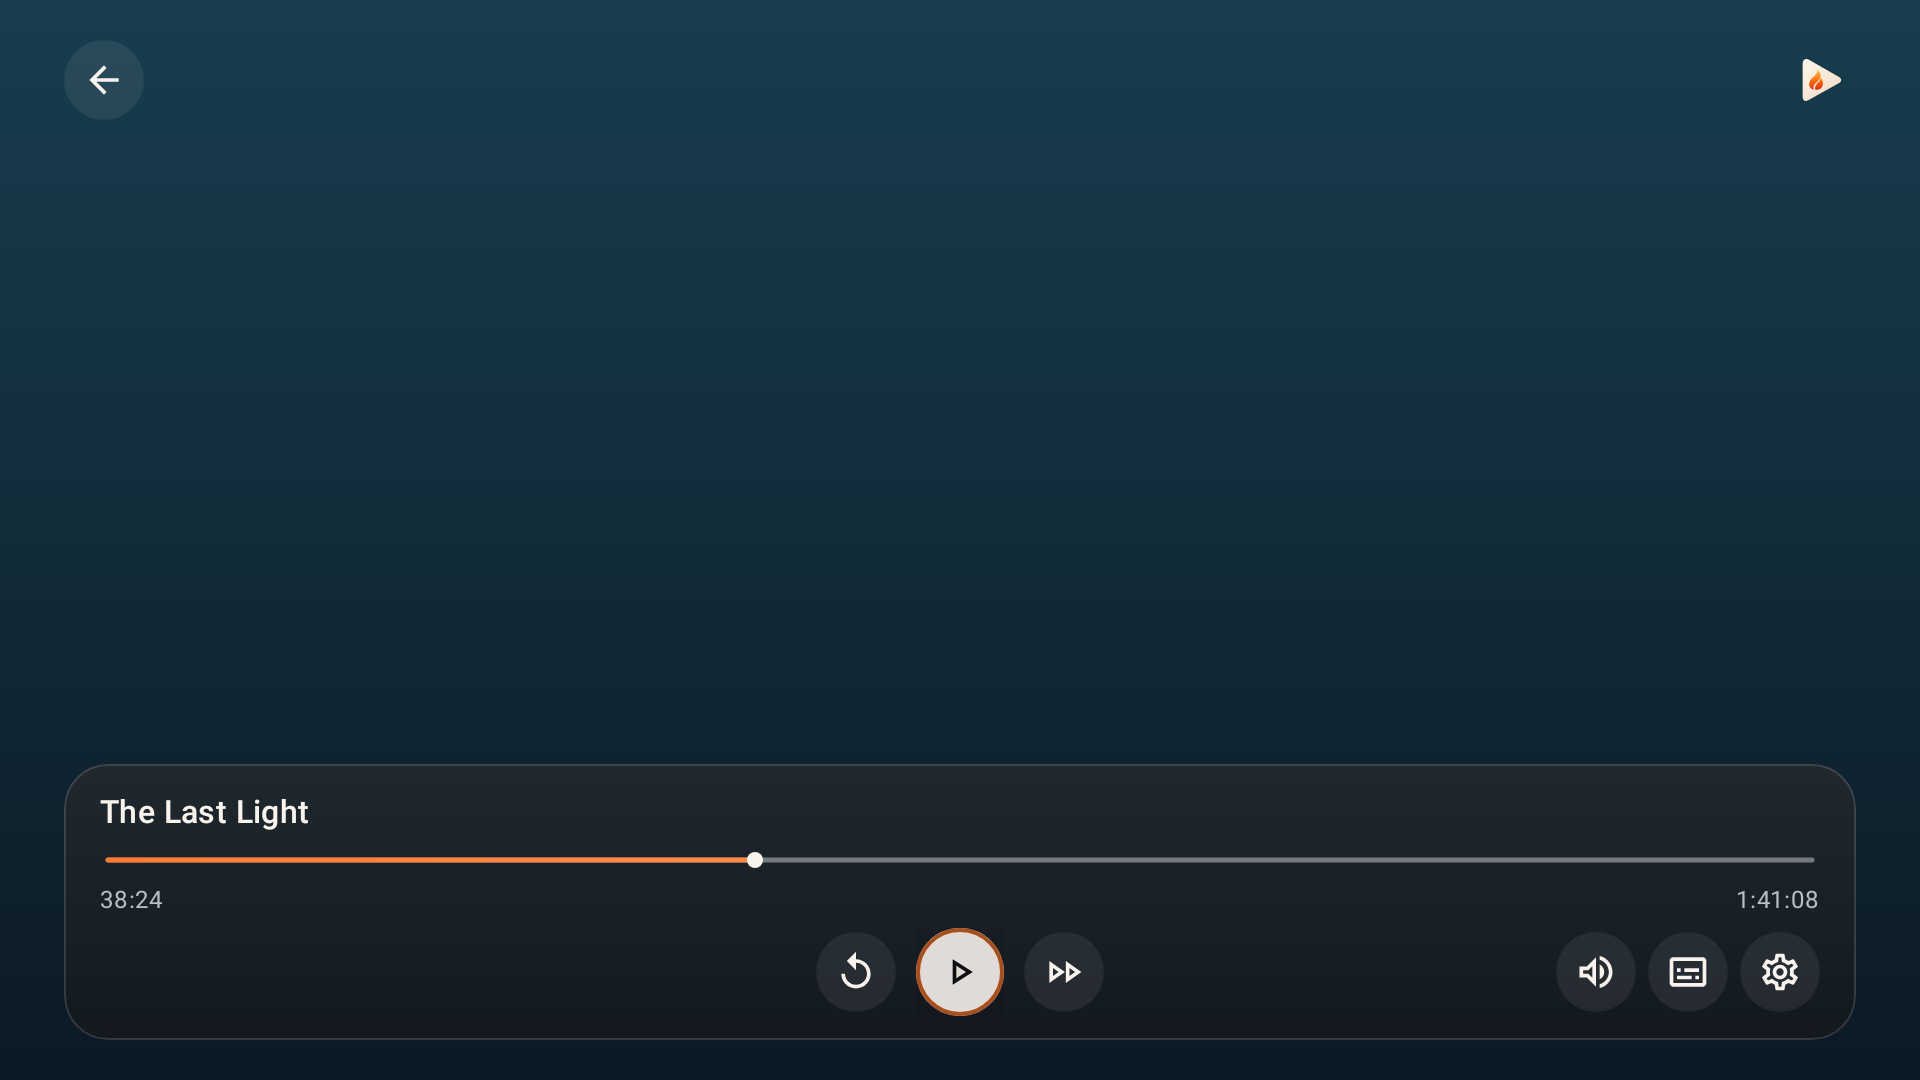
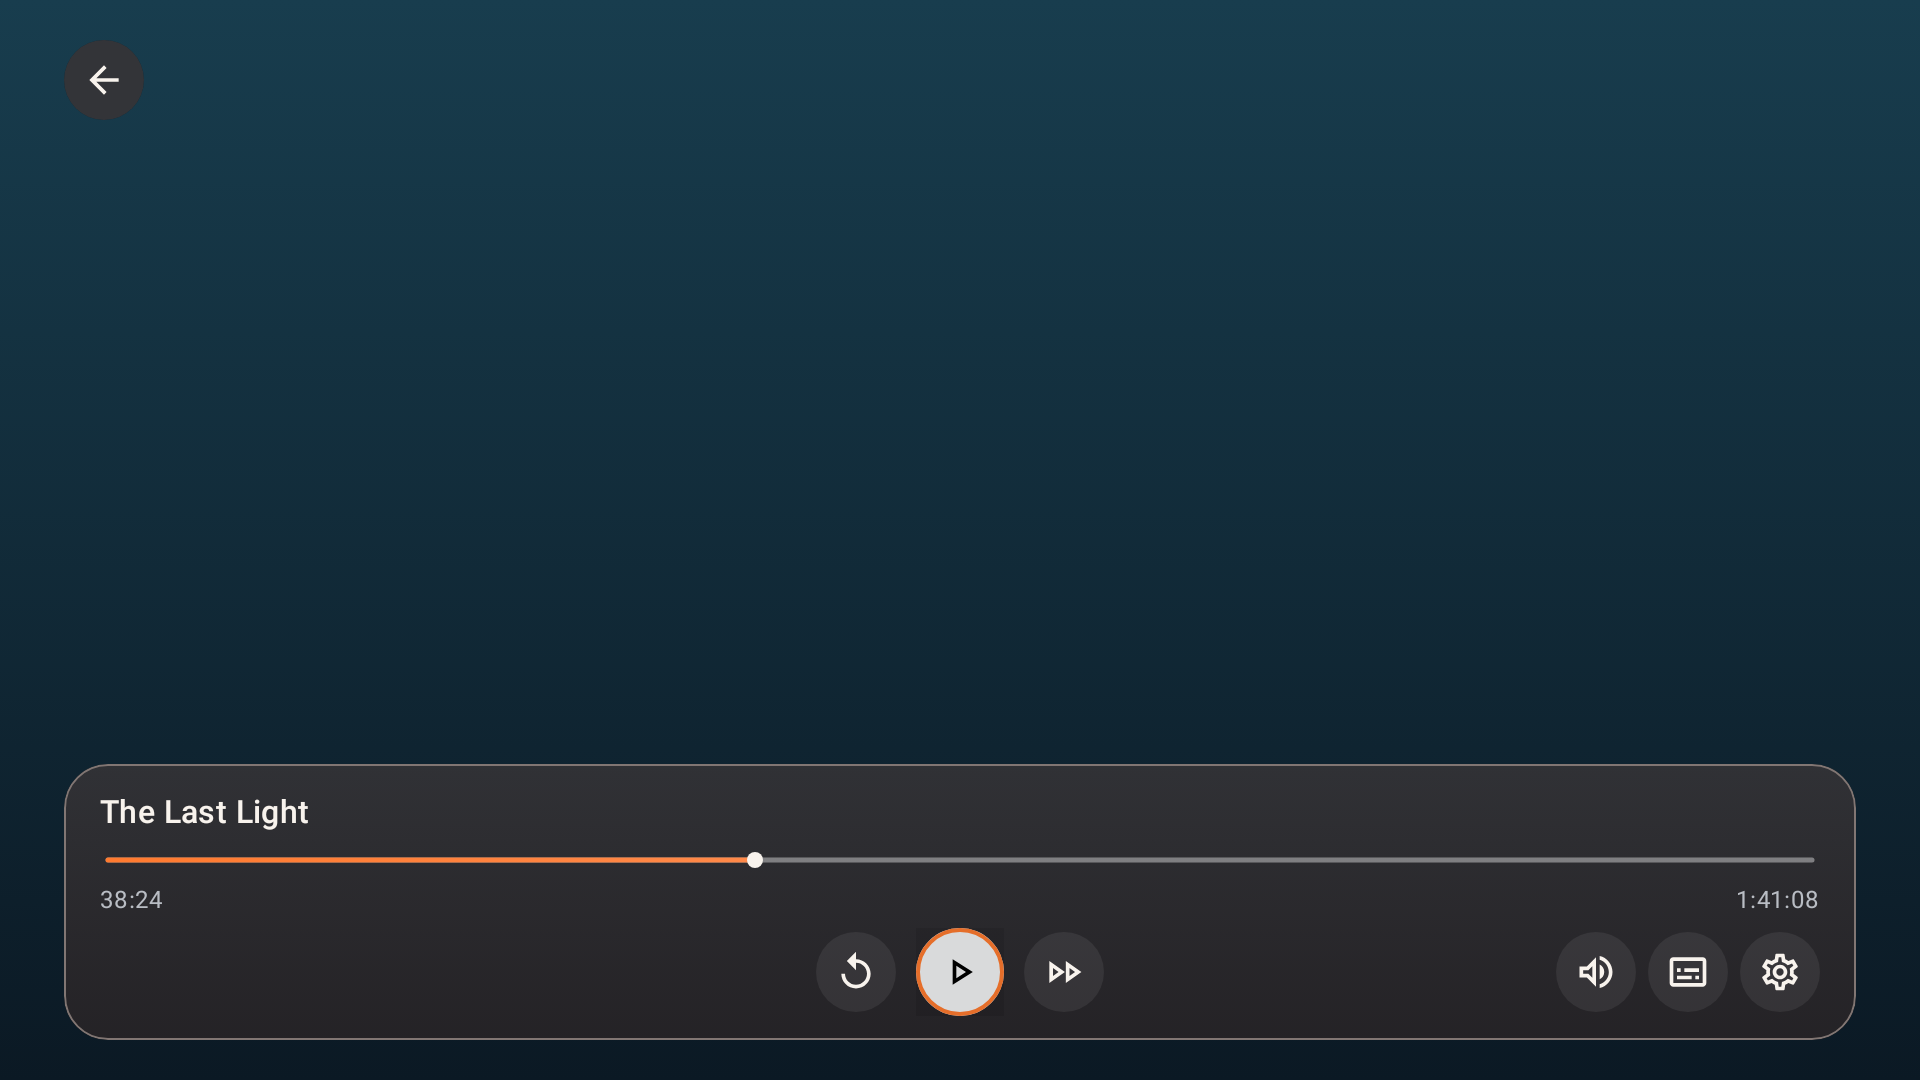
Document Ember Player 1.0.0 and refresh the screenshot gallery

Changed region(s): [[0.0312, 0.0306, 0.0938, 0.1222], [0.4688, 0.8556, 0.5312, 0.8861], [0.9375, 0.0611, 0.9688, 0.0917]]

diff --git a/docs/features.md b/docs/features.md
@@ -5,7 +5,7 @@ Ember Player runs on Android phones, tablets and TVs. See the [library and setti
 ## Playback
 
 - **Two playback cores:** AndroidX Media3/Nextlib and mpv, each available as a manually selected playback core, with automatic recovery where available. The player explains automatic core choices and renderer recovery. mpv exposes source-provided programs, HLS quality variants and editions; seekable video keeps its position when switching. The selected program follows background audio handoff and return to the player.
-- **Software audio:** AC-3, E-AC-3, DTS, TrueHD and other common formats are bundled. Media3 also supports supported MPEG-H streams as stereo PCM and IAMF tracks in MP4 using Opus, FLAC or PCM. AAC-based IAMF and encrypted IAMF are excluded. HDR output, immersive passthrough and device-only codecs depend on the device and selected core.
+- **Software audio:** AC-3, E-AC-3, DTS, TrueHD and other common formats are bundled. Media3 can decode supported MPEG-H streams to stereo PCM and play unencrypted IAMF in MP4 with Opus, FLAC or PCM. For supported tracks in seekable local MP4-family files, mpv can use the bundled decoders to prepare a temporary PCM track. AAC-based IAMF, encrypted tracks and private media are outside that mpv conversion path. Decoder and audio-output details appear in playback diagnostics.
 - **Automatic core choices:** known filenames guide opaque file URLs, and successful playback choices are remembered privately for seven days. Reset them in Settings with Reset decoder memory. Explicit core selections take priority. Supported RTMPS and SRTP streams open directly in mpv.
 - **Player interfaces:** Glass, Ember, Basic and Streaming controls.
 - **Files and USB:** select media through Android's document picker, including multiple files for a playback queue.
@@ -15,7 +15,7 @@ Ember Player runs on Android phones, tablets and TVs. See the [library and setti
 - **Resume and bookmarks:** saved positions, named scene bookmarks with a per-video limit and confirmed profile-scoped cleanup, queue ordering, repeat modes and chapter navigation, including Matroska and MP4 chapter metadata.
 - **Saved playlists:** keep reusable file, stream and network-folder queues, with shuffle and repeat. Saved network items reconnect through their account and file references when reopened.
 - **Encrypted backups:** export and restore player settings, positions, bookmarks, playlists and connection details using a password. Backups include no video files; Android storage permissions may need to be renewed on another device.
-- **Subtitles:** embedded tracks and manual text/bitmap subtitles, including SRT, VTT, ASS/SSA, TTML, SAMI and paired VobSub files. Timing, speed, custom fonts, colours, outlines, spacing and encoding controls are available. Find matching subtitle files beside a video or in a chosen folder; manual file choices are remembered privately for each video. Advanced layout and dual subtitles use mpv playback. Imported font files need to be installed again after restoring a backup on another device.
+- **Subtitles:** embedded tracks and manual text/bitmap subtitles, including SRT, VTT, ASS/SSA, TTML, SAMI and paired VobSub files. Timing, speed, custom fonts, colours, outlines, spacing and encoding controls are available. libass renders authored styling for eligible ASS subtitles in Media3 playback. Dual subtitles use mpv. Find matching subtitle files beside a video or in a chosen folder. Manual file choices are remembered privately for each video. Imported font files need to be installed again after restoring a backup on another device.
 - **Offline subtitle assistance:** optional translation through Android’s installed on-device language models (Android 12+) and read-aloud through installed offline speech voices. No cloud translation, API keys or automatic model downloads. Availability depends on the device; original subtitles remain available.
 - **Private media:** hide selected files and folders behind a PIN, lock the private area, and disable playback history or clear saved activity, including bookmarks and remembered track selections, across profiles. Private playback stays out of background audio, picture-in-picture and system media controls. This protects access inside the app; original files are not encrypted or hidden from other apps. Encrypted backups include privacy settings.
 - **USB browsing:** browse permitted audio and video on removable drives Android has mounted and indexed, even without a document picker. Media access is requested when you open a drive; supported filesystems and indexing depend on Android. Drive removal stops playback and releases its file handles. The system picker remains available for other files.

diff --git a/README.md b/README.md
@@ -33,11 +33,12 @@
 
 ## Made for your media
 
-Ember Player brings a warm charcoal-and-amber interface to your own media. Pick
+Ember Player uses Ember Launcher's warm charcoal-and-orange palette. Pick
 up where you stopped, browse saved folders or open a network stream. The library
 uses the same Home shelves, library tools and searchable Settings across devices.
-Phones and tablets use a bottom dock, while TVs use a remote-friendly toolbar and
-visible D-pad focus. Light, dark and system-following palettes are available on all three.
+Phones and tablets use a bottom dock. TVs use a remote-friendly toolbar with
+visible D-pad focus. Dark is the default, with Light and Follow system available
+under Appearance.
 
 Local playback needs **no account or API key**. Optional network and subtitle tools
 are enabled when you choose to use them. See [privacy and local data](docs/privacy.md).
@@ -57,7 +58,7 @@ are enabled when you choose to use them. See [privacy and local data](docs/priva
 
 ## Screenshots
 
-The library screenshots show an earlier first-launch layout before media is added.
+The library screenshots show the same sample collection on phone, tablet and TV.
 The playback preview shows the controls over an illustrative backdrop.
 
 <p align="center">
@@ -70,20 +71,22 @@ The playback preview shows the controls over an illustrative backdrop.
     <th align="center">Settings</th>
   </tr>
   <tr>
-    <td align="center"><img src="docs/screenshots/mobile.png" width="320" alt="Phone library with browsing tabs and top-bar actions" /></td>
+    <td align="center"><img src="docs/screenshots/mobile.png" width="320" alt="Phone Home with Continue watching, Open file, More options and a bottom navigation dock" /></td>
     <td align="center"><img src="docs/screenshots/settings.png" width="320" alt="Searchable Settings organized into eight categories" /></td>
   </tr>
 </table>
 
 <details open>
   <summary><strong>Tablet library</strong></summary>
-  <p><img src="docs/screenshots/tablet.png" width="100%" alt="Tablet library with top actions and browsing tabs" /></p>
+  <p><img src="docs/screenshots/tablet.png" width="100%" alt="Tablet Home with wide media shelves and a centered bottom dock" /></p>
 </details>
 
 <details open>
   <summary><strong>TV library</strong></summary>
-  <p><img src="docs/screenshots/tv.png" width="100%" alt="TV library with a compact remote navigation sidebar" /></p>
+  <p><img src="docs/screenshots/tv.png" width="100%" alt="TV Home with Browse, Search and More options above the media shelves" /></p>
 </details>
+
+Sample frames from *Big Buck Bunny*, © 2008, Blender Foundation / www.bigbuckbunny.org. [Gallery and image credits](docs/screenshots/README.md)
 
 ## Get started
 
@@ -93,9 +96,8 @@ tablets use touch controls; TVs support remotes and controllers.
 Download the APK from the [latest release](https://github.com/PrimeN/Ember-Player/releases/latest)
 and install it on your device. Choose **arm64-v8a** for modern ARM64 devices,
 **armeabi-v7a** for ARM32 devices, or the universal APK if you are unsure.
-An `.aab` is for store distribution and cannot be installed directly. This source prepares **1.0.0**;
-the release page shows the latest published version, and
-[the changelog](CHANGELOG.md) describes its features and requirements.
+Use the `.aab` for store distribution. See the changelog for features, fixes
+and compatibility details by version. [Changelog](CHANGELOG.md)
 
 Development happens on [`beta`](https://github.com/PrimeN/Ember-Player/tree/beta).
 Code pushes build and validate the app, with unsigned APK artifacts. Publishing
@@ -117,7 +119,8 @@ cd Ember-Player
 Ember combines Android's decoders with bundled software playback. Common
 containers include MP4, MKV, WebM, AVI, MOV and MPEG-TS. Software audio includes
 AC-3, E-AC-3, DTS and TrueHD. Media3 also supports selected MPEG-H streams as
-stereo PCM and unencrypted IAMF in MP4 using Opus, FLAC or PCM.
+stereo PCM and unencrypted IAMF in MP4 using Opus, FLAC or PCM. mpv playback can
+also decode supported tracks to PCM for eligible local MP4-family files.
 
 HDR10+, Dolby Vision, encoded surround output and device-only codecs depend on
 the hardware, output path and selected core. There is no bundled software AC-4

diff --git a/docs/settings.md b/docs/settings.md
@@ -3,34 +3,36 @@
 ## Browse your media
 
 On phones and tablets, the floating navigation dock contains **Home**, **Files**,
-**Search** and **Settings**. The top toolbar contains media filters, sorting,
-grid/list selection, file opening and more actions. On phones, the browsing
-controls use a second compact row to keep their touch targets usable.
+**Settings** and **Search**. Use **Open file** in the header to pick media, or
+choose a destination from the selector in **Files**.
 
-TV uses a compact sidebar for Videos, Folders, Network, Playlists, Downloads and
-Private media. The top folder icon opens Android's file picker. Focus is visible
-when navigating with a remote or controller.
+TV puts **Browse library**, **Search** and **More options** in the header. Browse
+library opens Home, Folders, Network, Playlists, Downloads and Private media.
+Open files and Settings from More options. Focus is visible when navigating with
+a remote or controller.
 
 Home groups your media into Continue watching, a video shelf, saved-folder
 shortcuts and Unwatched. Selecting a folder shortcut opens that folder in Files.
 The arrow beside a shelf opens its full view. Use Back to return to the shelves.
 Card density adjusts to the available width and system text size.
 
-Filter by All media, Continue watching, Unwatched or Watched. A saved position at
+Open **More options → Show media** to filter by All media, Continue watching,
+Unwatched or Watched. A saved position at
 95% of the known duration counts as watched. A file without a known duration is
 not assumed to be finished. Continue watching opens the saved media item with its
 existing resume behavior.
 
-Sort by **Date modified** or **Name A–Z**. Modification dates come from the saved
-folder index; files opened individually may not have a known date. Your filter,
-sort and grid/list choices are saved and included in encrypted settings backups.
+Use **More options → Sort media** to choose **Date modified** or **Name A–Z**.
+Modification dates come from the saved folder index. Choose **List view** or
+**Grid view** from the same menu. Filter, sort and layout choices are saved and
+included in encrypted settings backups.
 
 Library results are filtered and sorted before pagination, with duplicate items
 removed. Search matches filenames across saved
 folders through an encrypted index. Adding a folder schedules a background scan,
 and startup refreshes an index older than 15 minutes or changed saved roots.
 Use **Folders → Saved folder library → Refresh library** for an immediate scan.
-**Reload displayed media** reloads the visible catalog without scanning folders.
+Use **More options → Reload displayed media** to reload the visible catalog.
 
 When you browse inside a saved folder, paging, search and sorting reuse the same
 listing for that visit. Refreshing, changing folders, changing files or changing
@@ -44,7 +46,7 @@ uses representative media to illustrate the layout.
 
 ## Find a setting
 
-Open Settings from the dock, the TV toolbar or More options. Search by a feature
+Open Settings from the dock or from **More options** on TV. Search by a feature
 name such as `subtitles`, `timeout`, `equalizer`, `HDR` or `backup`. A result opens
 the relevant category and section. Back returns to your search results.
 
@@ -59,9 +61,11 @@ the relevant category and section. Back returns to your search results.
 | Privacy | Private-media PIN, history and encrypted backup/restore |
 | About | Version, legal information and dependency licenses |
 
-Glass, Ember, Basic and Streaming are playback-control layouts. They are separate
-from the app's day/night palette. Appearance changes also update screens already
-open in memory.
+Glass, Ember, Basic and Streaming are playback-control layouts. Glass and Ember
+keep Back at the top and group the timeline, transport and other actions at the
+bottom. Transport and other playback actions stack in narrower windows.
+**Appearance** sets the app's palette and theme. Dark is the default on every
+device. Light and Follow system are also available.
 
 Choose **Playback → Playback core** to select Automatic, Media3 or mpv as your
 default. The player menu offers the same choices during playback. Automatic can

diff --git a/CHANGELOG.md b/CHANGELOG.md
@@ -2,20 +2,28 @@
 
 ## [1.0.0]
 
-- Ship Android startup profiles for phone and TV library navigation.
+Ember Player 1.0.0 brings the Ember Launcher palette and a simpler library to
+Android phones, tablets and TVs, along with updates to both playback cores.
 
-- Reuse saved-folder listings for paging, search and sorting during the current visit.
-- Add translation resource checks and contributor guidance.
-- Update AppCompat to 1.8.0 and Fragment to 1.9.1.
+### Library and controls
 
-- Add mpv program and quality choices, explain automatic core and renderer decisions, and prepare reusable native resources off the main thread.
-- Search and naturally sort entire saved folders, show durations before videos are played, and improve compact phone headers and TV accessibility labels.
-- Fix background embedded artwork, unknown-length WebDAV playback, unreadable folder-history writes and subtitle ZIP handling.
-- Prefer gpu-next for automatic mpv rendering, with one Stable GPU fallback and an explicit manual renderer choice.
-- Offer explicit Media3 and mpv playback-core choices in settings and the player menu.
-- Update to mpv 0.42.0 and the Android wrapper 1.1.0, with matching FFmpeg 9.0.2 filters and rebuilt custom native components.
-- Handle remote Menu presses safely while native playback resources are loading, and use consistent playback-core names.
-- Provide smaller ARM64 and ARM32 APKs alongside the universal APK, plus an Android App Bundle for store distribution. Trim unused crypto code, add privacy-policy access in About, and refresh the screenshot gallery and release documentation.
+- Browse Continue watching, library shortcuts and video shelves with a consistent layout across phone, tablet and TV. Phones and tablets use a floating Home, Files, Settings and Search dock. TV has visible D-pad focus and direct access to Browse and Search.
+- Find media filters, sort order, grid or list view and catalog refresh under More options. The menu shows the saved filter and sort order. The Glass and Ember playback overlays keep Back above the video and stack the bottom controls in narrower windows.
+- Search and naturally sort complete saved folders, see durations before playing files, and reuse listings for paging, search and sort during the same visit. Ship startup profiles for phone and TV library navigation.
+
+### Playback, audio and subtitles
+
+- Select Automatic, Media3 or mpv from Settings or during playback. The player explains core and renderer choices. mpv exposes programs, live quality variants and editions. Automatic rendering starts with gpu-next and can recover to Stable GPU.
+- Add decoded PCM for supported IAMF and MPEG-H tracks in seekable local MP4-family files during mpv playback. The path has format and storage requirements, and immersive passthrough depends on the device and selected core. [Format details](docs/features.md)
+- Honor PCM and manual passthrough settings in Media3. See the active audio decoder and negotiated output in playback diagnostics. Automatic routing takes explicit decoder and tunneling choices into account.
+- Render eligible authored ASS subtitles with libass over Media3. Improve subtitle timing and ownership during core changes, and preserve subtitle-off selections across program changes.
+- Improve recovery for audio decoder errors, background playback and HTTP failures. Preserve playback state during core switches and report HDR surface and decoder diagnostics more clearly.
+- Update mpv to 0.42.0, the Android wrapper to 1.1.0 and the FFmpeg filters to 9.0.2. Fix background artwork, unknown-length WebDAV playback, unreadable folder-history writes, subtitle ZIP handling and remote Menu presses during playback startup.
+
+### Downloads and requirements
+
+- Install the universal APK or choose a smaller ARM64 or ARM32 APK. The Android App Bundle is available for store distribution. Android 10 or newer is required. Release downloads include SHA-256 checksums.
+- Find the privacy policy and bundled dependency notices under Settings → About. Updated guides cover the library, settings, build process and translation contributions. [Screenshot gallery](docs/screenshots/README.md) · [Build and signing](docs/building.md)
 
 ## [0.8.5]
 

diff --git a/docs/screenshots/README.md b/docs/screenshots/README.md
@@ -1,26 +1,31 @@
 # Screenshots
 
-The library captures show an earlier Ember Player first-launch layout before folders or media have been selected. The playback
-capture shows real transport controls over an illustrative backdrop.
+The library captures show the same sample collection on phone, tablet and TV.
+The playback capture shows the Glass controls over an illustrative backdrop.
 
 | View | Preview |
 | --- | --- |
-| [Playback](player.png) | Glass transport controls, timeline and playback actions |
-| [Phone](mobile.png) | First-launch library with browsing tabs and Search/Settings in the top bar |
-| [Tablet](tablet.png) | Top actions and browsing tabs |
-| [TV](tv.png) | Remote navigation with a compact sidebar |
+| [Playback](player.png) | Back above the picture, with the timeline, transport and playback actions below |
+| [Phone](mobile.png) | Continue watching, a two-button header and the floating navigation dock |
+| [Tablet](tablet.png) | Wider shelves, library shortcuts and a centered navigation dock |
+| [TV](tv.png) | Browse, Search and More options, with visible remote focus on a media card |
 | [Settings](settings.png) | Search and eight settings categories |
 
 Images are captured from app views. Device size, media availability, palette and
 system text settings can change the number of cards visible.
 
-To regenerate the gallery with JDK 21 and the configured Android SDK:
+The sample thumbnails use cropped frames from *Big Buck Bunny*, © 2008,
+Blender Foundation / www.bigbuckbunny.org, under Creative Commons Attribution 3.0.
+[Film credits and license](https://peach.blender.org/about/)
+
+To capture the first-launch library, playback and Settings with JDK 21 and the
+configured Android SDK:
 
 ```sh
-EMBER_SCREENSHOTS_DIR="$PWD/docs/screenshots" ./gradlew testDebugUnitTest --tests 'app.ember.player.Release*ScreenshotsTest'
+EMBER_SCREENSHOTS_DIR="$PWD/app/build/screenshots" ./gradlew testDebugUnitTest --tests 'app.ember.player.Release*ScreenshotsTest'
 ```
 
 These opt-in captures render app views through Robolectric native graphics. They
-show the layout and controls; they do not validate hardware video output.
+exercise the layout and controls without an attached Android device.
 
 [Back to Ember Player](../../README.md)

diff --git a/docs/building.md b/docs/building.md
@@ -76,10 +76,10 @@ for the Console declarations and privacy-policy link.
 
 The [Android workflow](../.github/workflows/android.yml) runs functional tests,
 optimized APK and app-bundle compilation, lint and native dependency/alignment checks on
-pushes and pull requests. Pushes and manual runs provide an unsigned universal and per-architecture APKs plus an app-bundle
-artifact, retained for seven days. Manual runs also provide an installable debug
-APK. Validation jobs have no signing-secret references. All workflow actions use
-full commit SHAs.
+pushes and pull requests. Successful Android builds provide an installable debug
+APK for three days. Pushes and manual runs also provide unsigned universal and
+per-architecture APKs plus an app bundle for seven days. Validation jobs have no
+signing-secret references. All workflow actions use full commit SHAs.
 
 Configure the GitHub Environment **release-signing** before publishing:
 
